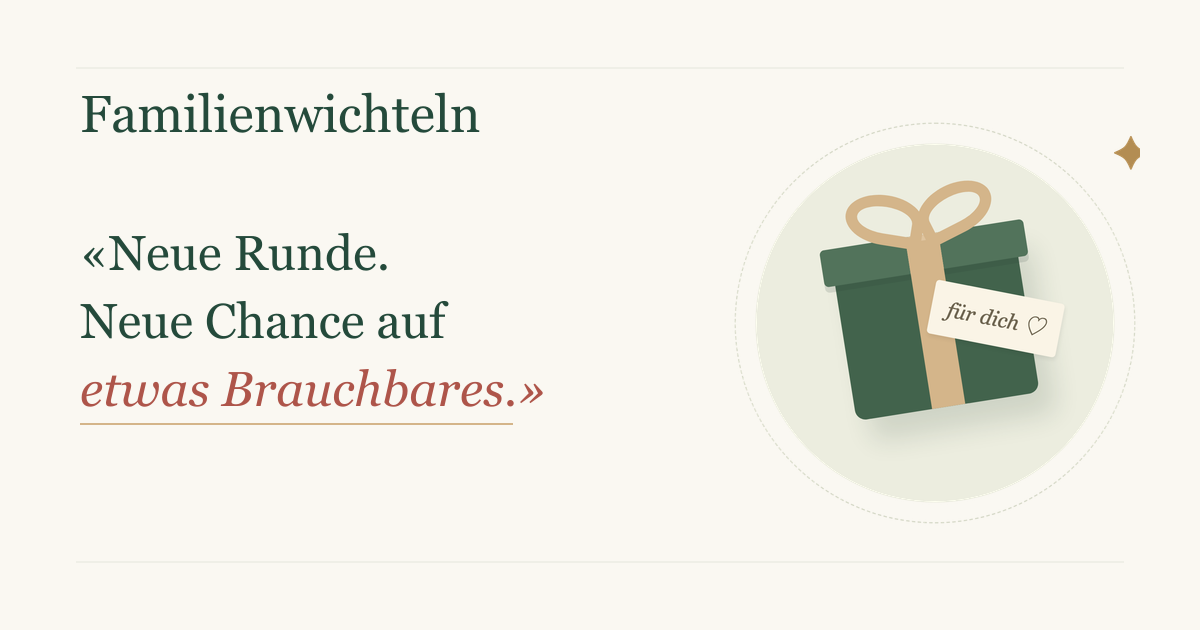
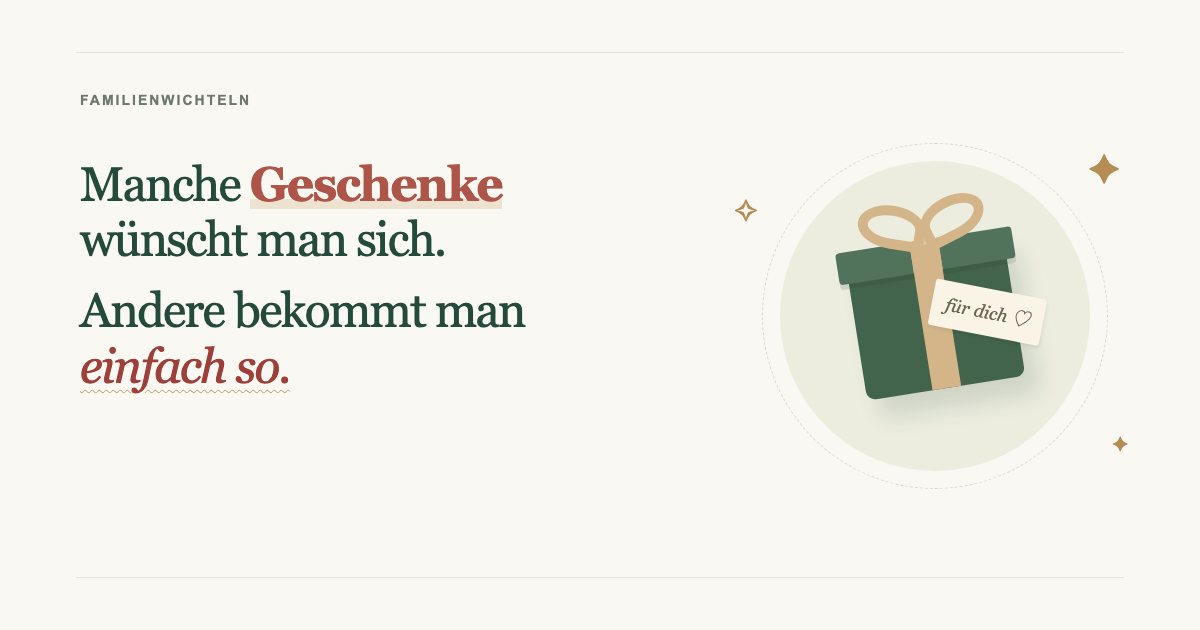
edit open graph and titles

diff --git a/src/lib/site-metadata.ts b/src/lib/site-metadata.ts
@@ -14,7 +14,7 @@ const image = {
   url: "/social-preview.png",
   width: 1200,
   height: 630,
-  alt: "Familienwichteln – grünes Geschenk mit goldener Schleife. Neue Runde. Neue Chance auf etwas Brauchbares.",
+  alt: "Familienwichteln – grünes Geschenk mit goldener Schleife. Manche Geschenke wünscht man sich. Andere bekommt man einfach so.",
 };
 
 // Keep shared previews generic, including on invitation and private group routes.

diff --git a/src/app/page.tsx b/src/app/page.tsx
@@ -23,7 +23,7 @@ export default async function Home() {
     <>
       <section className="hero">
         <div className="hero-copy">
-          <h1>Familienwichteln</h1>
+          <h1>Schenken für Anfänger</h1>
           <FestiveQuote hero>
             <span>
               Manche <strong>Geschenke</strong> wünscht man sich.

diff --git a/src/app/layout.tsx b/src/app/layout.tsx
@@ -14,7 +14,7 @@ export default function RootLayout({
             <span className="brand-icon">
               <Gift size={23} />
             </span>
-            Familien<span>wichteln</span>
+            Eschbach<span>wichtelt</span>
           </Link>
         </header>
         <main>{children}</main>

diff --git a/README.md b/README.md
@@ -132,7 +132,7 @@ Produktion: Turso-Backupmöglichkeiten nutzen. Einzelne Gruppen können über ei
 
 ## Linkvorschau und Favicon
 
-Open Graph und Twitter verwenden dieselbe allgemeine Vorschau mit dem Geschenk der Startseite und „«Neue Runde. Neue Chance auf etwas Brauchbares.»“. Gruppennamen, Teilnehmer, Wünsche und Zuordnungen erscheinen nicht in den Metadaten. Das Geschenk dient auch als Favicon und Apple-Touch-Icon.
+Open Graph und Twitter verwenden dasselbe Vorschaubild mit Geschenk und Spruch der Startseite („Manche Geschenke wünscht man sich. Andere bekommt man einfach so.“). Die Metadatenbeschreibung bleibt „«Neue Runde. Neue Chance auf etwas Brauchbares.»“. Gruppennamen, Teilnehmer, Wünsche und Zuordnungen erscheinen nicht in den Metadaten. Das Geschenk dient auch als Favicon und Apple-Touch-Icon.
 
 Auf Vercel wird die Bild-Domain automatisch aus den Deployment-Variablen ermittelt. Bei einer eigenen Domain `SITE_URL=https://deine-domain.example` für Production setzen und erneut deployen. Lokal ist der Standard `http://localhost:3000`; für einen anderen Port `SITE_URL` anpassen. Öffentlich erreichbare HTTPS-URLs sind für echte Messenger-Vorschauen nötig; localhost ist nur lokal erreichbar.
 
